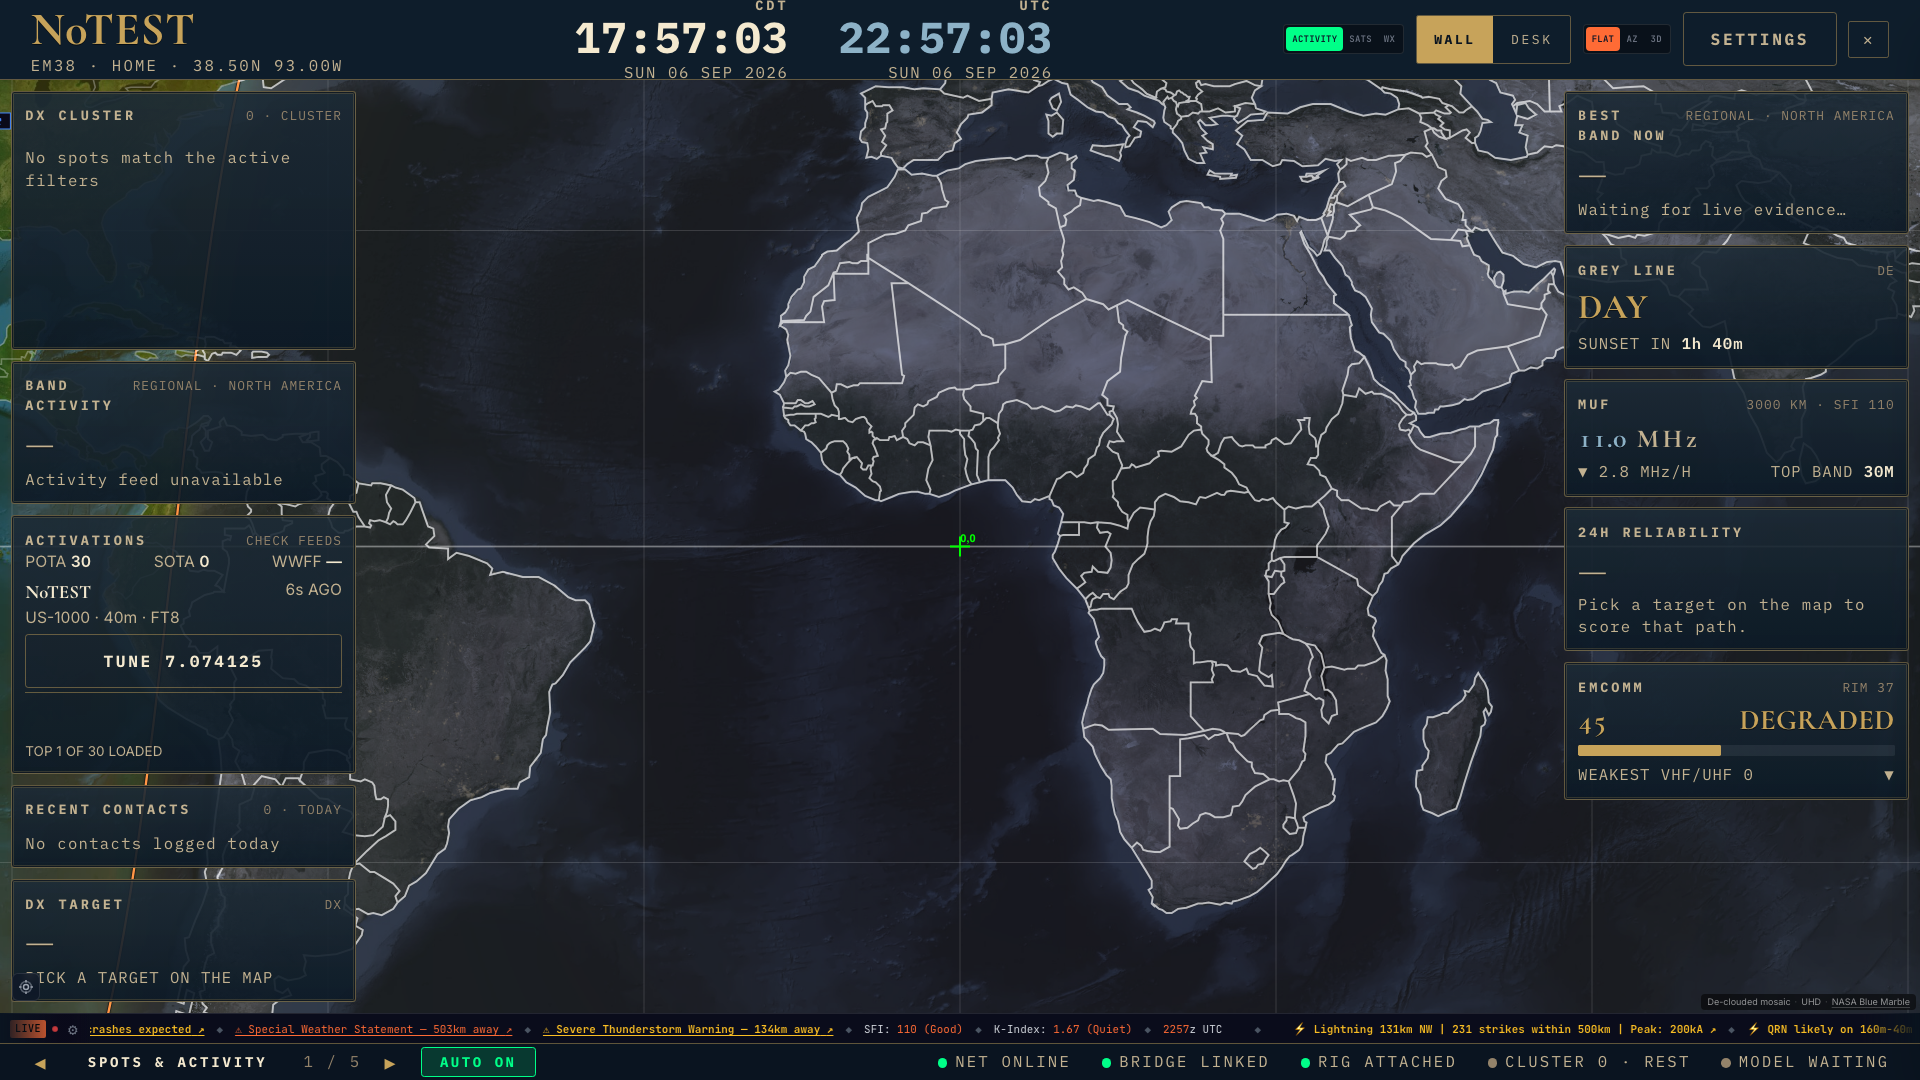
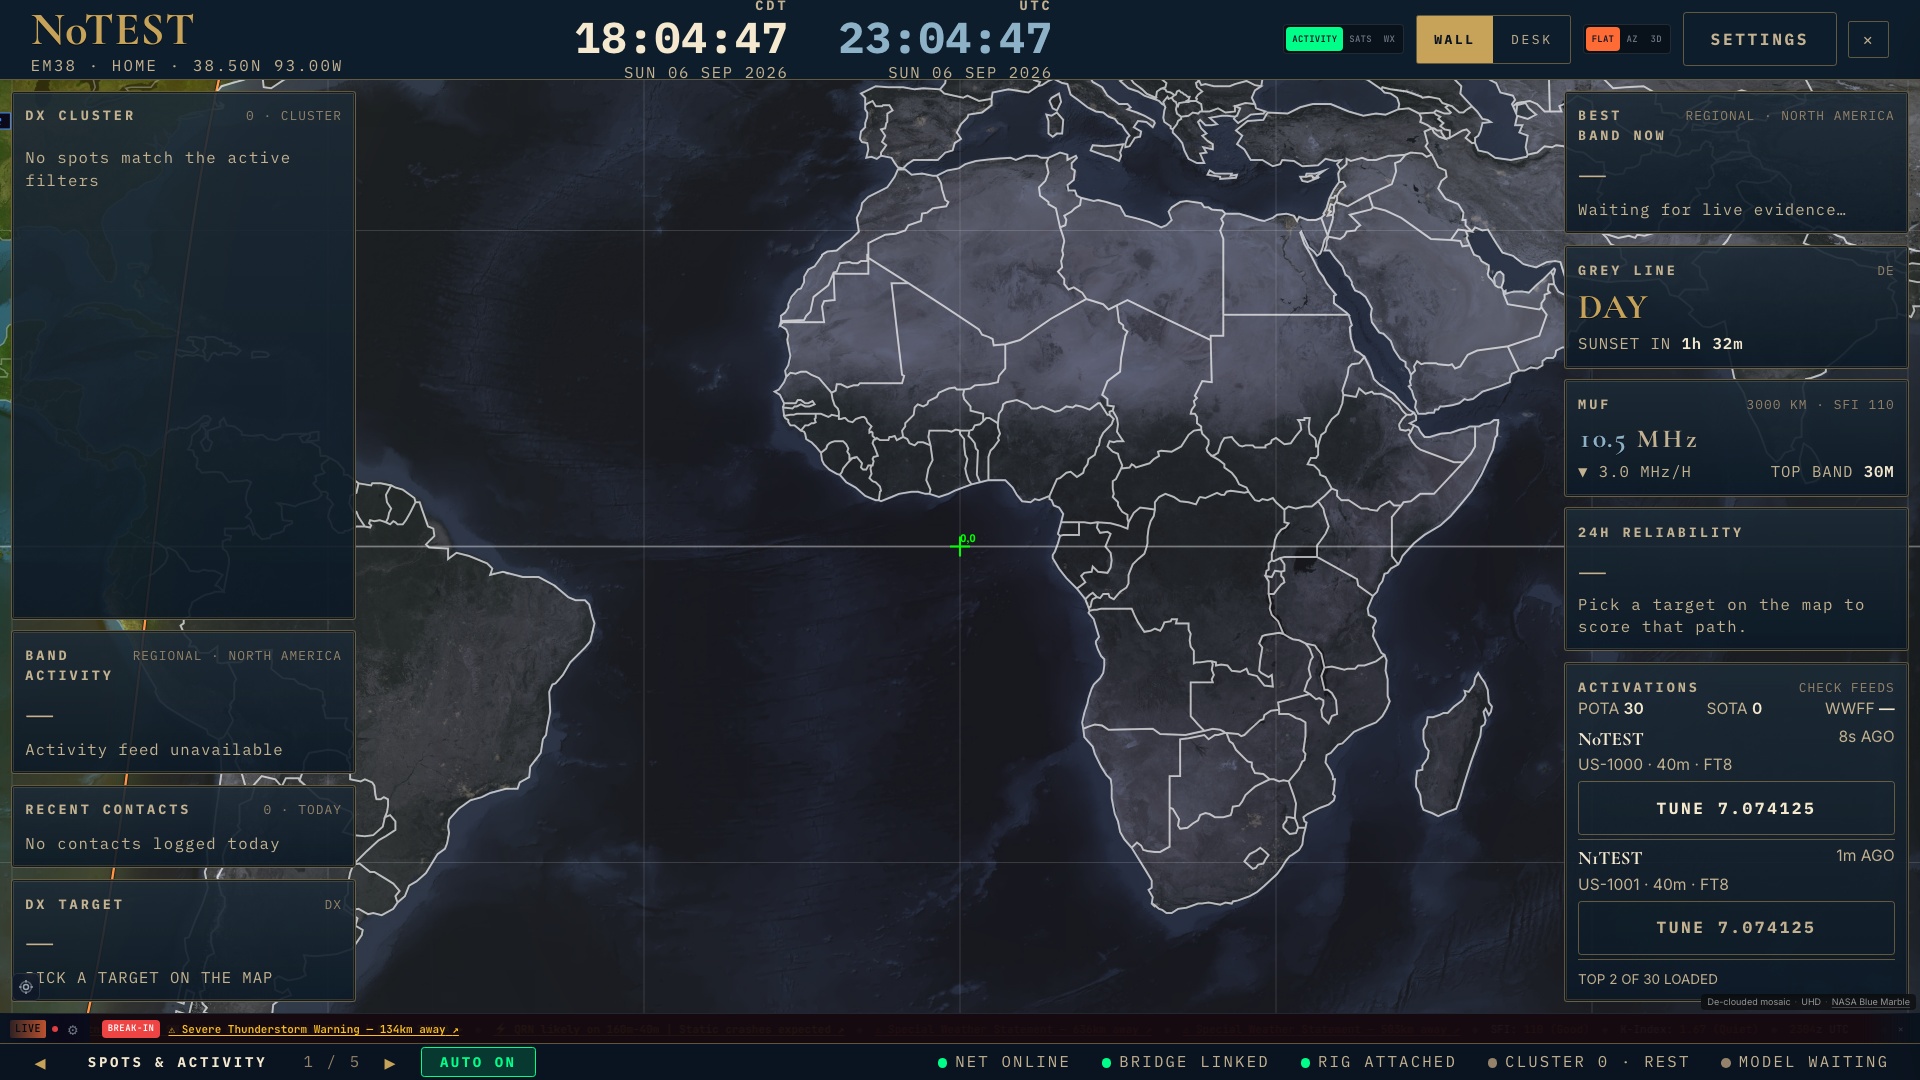
fix(hamclock): preserve shipped rail slot limits

diff --git a/src/lib/hamclock/wallPages.ts b/src/lib/hamclock/wallPages.ts
@@ -79,8 +79,8 @@ export const WALL_PAGES: readonly WallPageData[] = [
     id: "spots",
     title: "Spots & Activity",
     shortLabel: "Spots",
-    left: ["cluster", "bandActivity", "activations", "recentContacts", "dxTarget"],
-    right: ["bestBand", "greyLine", "muf", "reliability", "emcomm"],
+    left: ["cluster", "bandActivity", "recentContacts", "dxTarget"],
+    right: ["bestBand", "greyLine", "muf", "reliability", "activations"],
   },
   {
     id: "solar",

diff --git a/docs/designs/hamclock-activations-wall.md b/docs/designs/hamclock-activations-wall.md
@@ -2,7 +2,7 @@
 
 This UI slice stacks on #414's source timing contract, using the common tuning stack #411–#413. #285 remains the sole active implementation batch. The report currently covers the existing POTA, ParksnPeaks SOTA and WWFF adapters; WWBOTA/CanParks are still separate source work and the whole issue remains open.
 
-The shipped Spots & Activity page adds an Activations tile. Counts describe loaded reports in the two-hour window, with unavailable programme counts shown as unknown. The newest rows show callsign, reference, band/mode, age and an explicit Tune action. The tile's report opener and tune actions remain separate targets. A rail containing Activations divides its growing tiles using a fixed zero flex basis, preventing the number of rendered rows from feeding back into the measured available height.
+The shipped Spots & Activity page adds Activations in the right-rail slot previously occupied by a duplicate EmComm tile. EmComm remains on Weather & Emergency, and the existing four-left/five-right slot limits are preserved. Counts describe loaded reports in the two-hour window, with unavailable programme counts shown as unknown. The newest rows show callsign, reference, band/mode, age and an explicit Tune action. The tile's report opener and tune actions remain separate targets. A rail containing Activations divides its growing tiles using a fixed zero flex basis, preventing the number of rendered rows from feeding back into the measured available height.
 
 The centred report has programme tabs, at most five facts, measured newest rows and a complete screen-reader table. Successful empty feeds, missing source timing, stale retrievals and failed providers remain distinct. The footer uses the selected programme's successful retrieval time, never the aggregate completion time. Observation ages remain per spot. Cached rows expire after the original two-hour source window. Tuning uses the current reported kHz value and mode; UNKNOWN modes request frequency only. Pinning retains the selected programme.
 
@@ -14,6 +14,6 @@ The centred report has programme tabs, at most five facts, measured newest rows 
 - Report matrix: all three programmes × Pulse/Classic/Brass × 1920×1080 and 3840×2160. No report, panel or list overflow. Tile containment is checked under the same theme/resolution changes with a populated neighbouring cluster. A visually hidden wrapper contains the table's intrinsic height.
 - Tile and report Tune actions stage 7,074,125 Hz / USB. Tile tuning does not open the report. Identity text and controls do not overlap. Escape returns focus to the opener; pin/unpin retains SOTA selection and closes correctly.
 - Screenshots were visually inspected. Physical-distance readability and authenticated production checks remain pending; local fixtures are not provider or hardware acceptance.
-- Owned local session: `hamclock-activations-wall`, `16e2afb1-8b5b-442f-86e9-a70d3059794a`, `http://127.0.0.1:5181/map`, checkout `.worktrees/hamclock-activations-wall`.
+- Owned local session: `hamclock-activations-wall`, `716519d2-46df-4d2d-b2ee-4602b62981d5`, `http://127.0.0.1:5181/map`, checkout `.worktrees/hamclock-activations-wall`.
 
 [1080p report](../images/hamclock-activations/report-1920.png) · [4K report](../images/hamclock-activations/report-3840.png) · [1080p tile](../images/hamclock-activations/tile-1080p.png)
